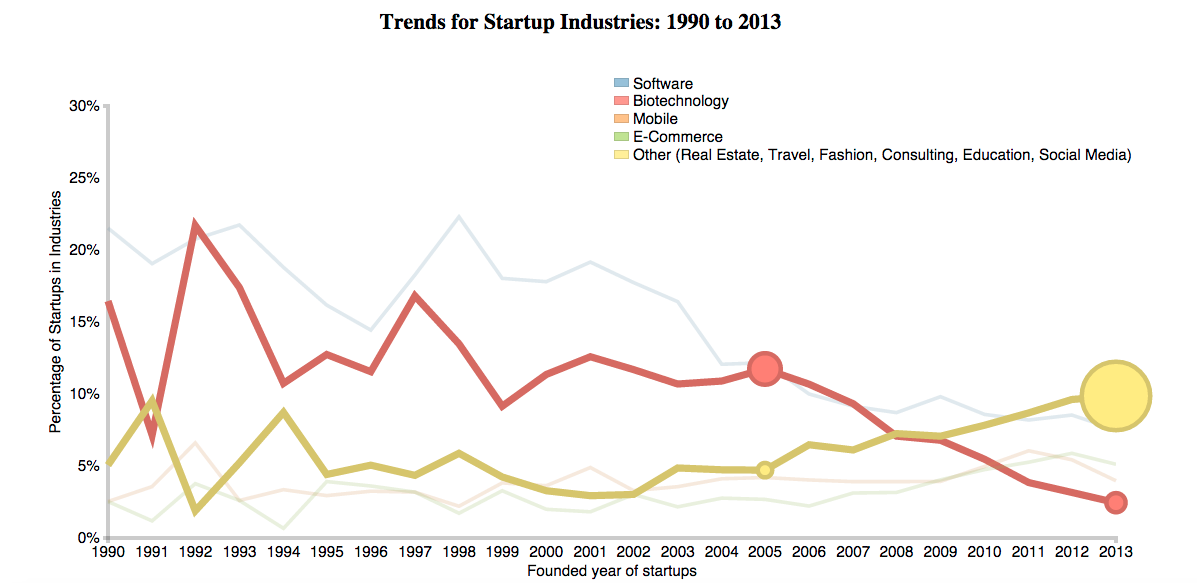
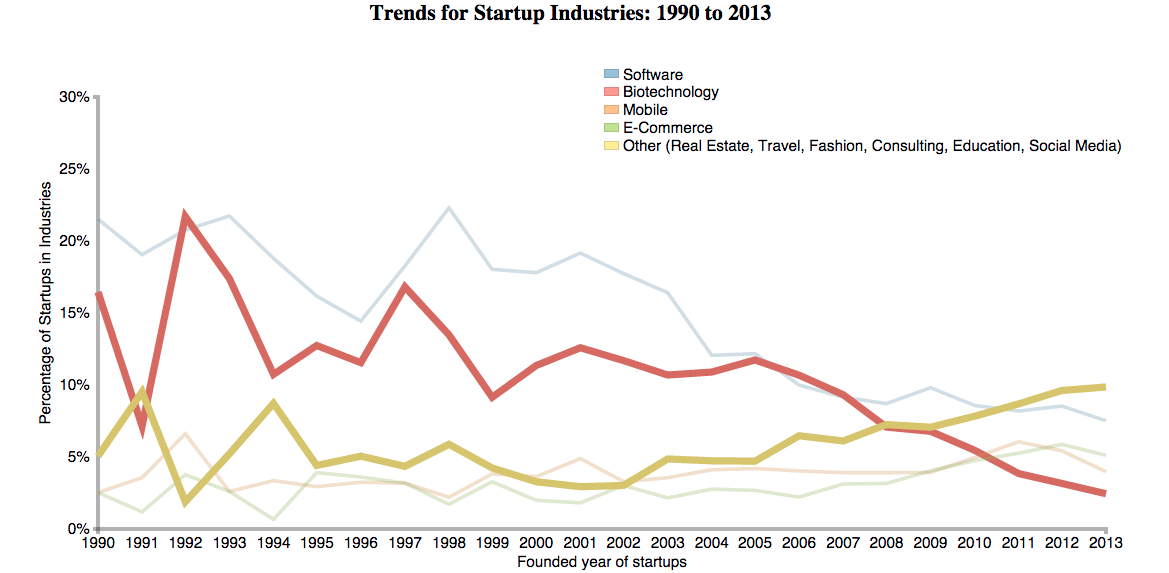
edit images

diff --git a/Project5_Make Effective Data Visualization/js/myChart_final.js b/Project5_Make Effective Data Visualization/js/myChart_final.js
@@ -46,7 +46,7 @@ function draw(data) {
           // Change order of legends
           Series1.addOrderRule([" Software ", " Biotechnology ", " Mobile ", " E-Commerce ", " Other (Real Estate, Travel, Fashion, Consulting, Education, Social Media) "])
           Series1.addOrderRule([" Software ", " Biotechnology ", " Mobile ", " E-Commerce ", " Other (Real Estate, Travel, Fashion, Consulting, Education, Social Media) "])
-          var legend = myChart.addLegend(width*0.9, 10, 100, 100, "right");
+          var legend = myChart.addLegend(width*0.9, 10, 100, 100, "right", [Series1, Series2]);
           legend.fontSize = "17px"; // set font size for legend
           myChart.draw();
 
@@ -57,22 +57,13 @@ function draw(data) {
 
           d3.selectAll("circle")
              .style("opacity", 0)
-             .on("click", function() {
-               d3.select(this)
-                 .style({"stroke-width": "5px"})
-                 .style("opacity", 1);
-               }).on("dblclick", function() {
-               d3.select(this)
-                 .style({"stroke-width": "1px"})
-                 .style("opacity", 0);
-               })
 
         /* 
           Apply mouse click event: single click to show area, double click to hide area
         */
 
           d3.selectAll("path")
-             .style("opacity", 0.2)
+             .style("opacity", 0.3)
              .style({"stroke-width": "4px"})
              .on("click", function() {
                d3.select(this)
@@ -81,7 +72,7 @@ function draw(data) {
                }).on("dblclick", function() {
                d3.select(this)
                  .style({"stroke-width": "4px"})
-                 .style("opacity", 0.2);
+                 .style("opacity", 0.3);
                })
         };
 
